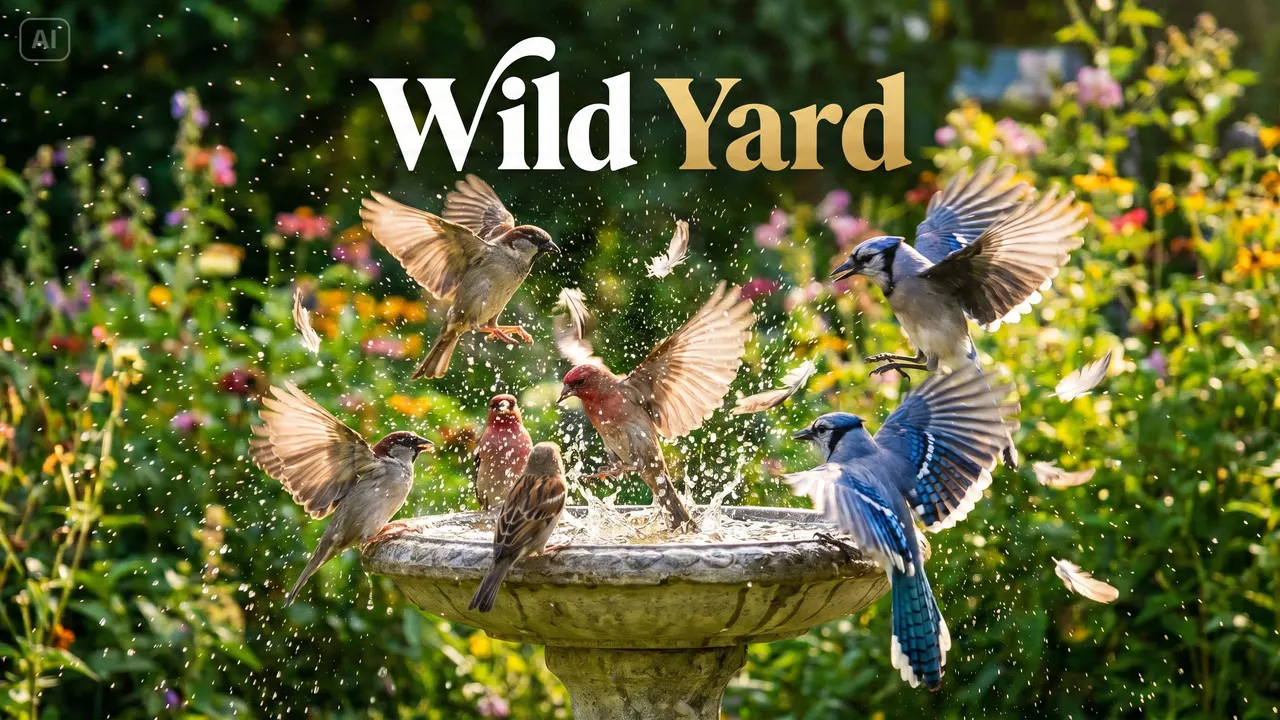
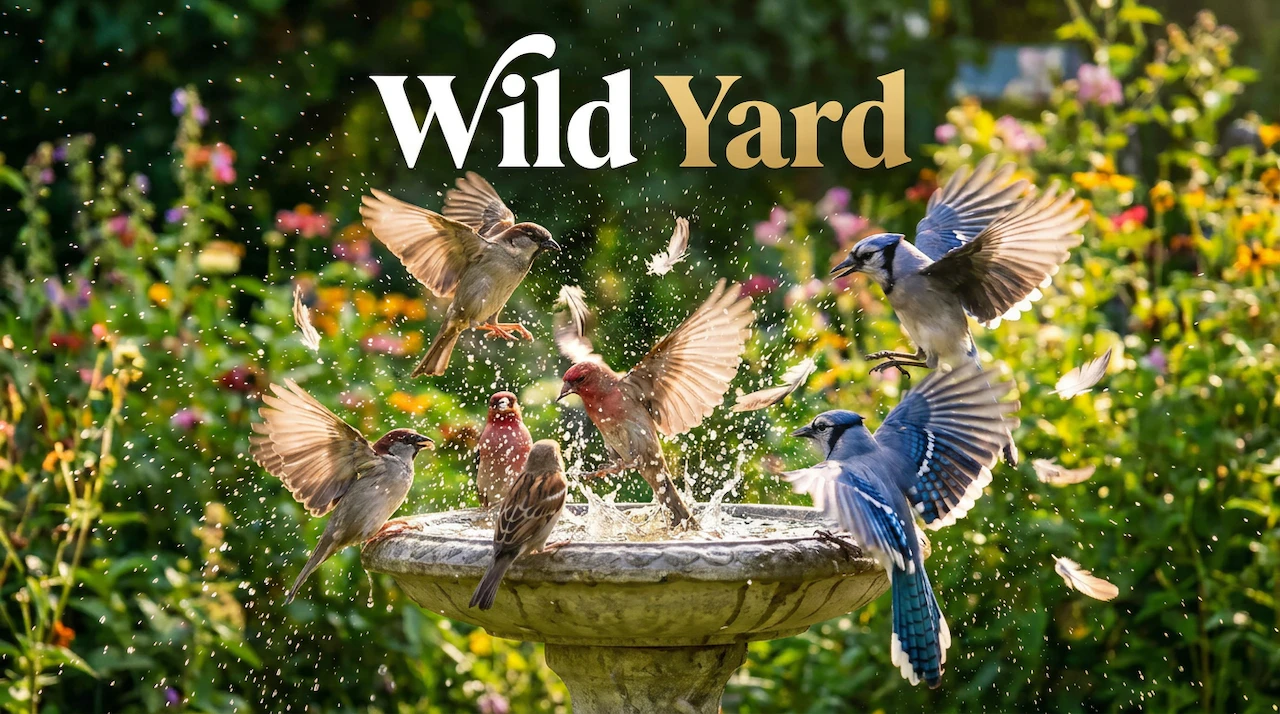
feat: Revamp HeroUpNext component to feature a spotlighted show and a compact lineup; remove QueueItem component for streamlined rendering; update styles and animations for enhanced user experience

diff --git a/components/catcup/hero-up-next.tsx b/components/catcup/hero-up-next.tsx
@@ -5,57 +5,216 @@ import * as m from "motion/react-m"
 import { SkipForward } from "@phosphor-icons/react"
 
 import { fadeRise, springSoft } from "@/lib/motion"
-import { SHOWS_BY_ID } from "@/lib/shows"
-import { usePlayer } from "@/components/catcup/player-provider"
-import { QueueItem } from "@/components/catcup/queue-item"
+import { QueueEntry, SHOWS_BY_ID, type Show } from "@/lib/shows"
+import { cn } from "@/lib/utils"
+import { usePlayer, usePlayerDispatch } from "@/components/catcup/player-provider"
+import { TrailerMedia } from "@/components/catcup/trailer-media"
+
+interface FeaturedProps {
+  /** The queue entry to spotlight as the next show. */
+  entry: QueueEntry
+}
+
+interface HeaderProps {
+  /** Callback invoked when the user skips to the next queued show. */
+  onSkip: () => void
+  /** The show title used for the skip button's accessible label. */
+  skipTitle: string
+}
+
+interface HeroUpNextProps {
+  /** Optional class names for the panel shell. */
+  className?: string
+}
+
+interface LineupItemProps {
+  /** The queue entry rendered in the compact lineup. */
+  entry: QueueEntry
+  /** The show's position in the queue (1-based). */
+  position: number
+}
+
+interface LineupProps {
+  /** Remaining queue entries after the featured show. */
+  entries: QueueEntry[]
+}
+
+interface ShowMetaProps {
+  /** The show whose metadata is displayed. */
+  show: Show
+}
 
 /**
- * Glassy "Up Next" panel listing every queued show with a skip-to-next control.
+ * Glassy Up Next panel with a featured next show and a compact lineup below.
  * Animates in and out so the hero stays uncluttered while the queue is empty.
  */
-export function HeroUpNext() {
+function HeroUpNextRoot({ className }: HeroUpNextProps) {
   const { dispatch, queue } = usePlayer()
-  const next = queue[0]
+  const [next, ...upcoming] = queue
   const nextShow = next ? SHOWS_BY_ID[next.showId] : undefined
 
   return (
     <AnimatePresence>
-      {queue.length > 0 ? (
+      {next && nextShow ? (
         <m.aside
           animate="show"
           aria-label="Up next queue"
-          className="flex flex-col gap-3 rounded-card border border-white/10 bg-surface-lowest/70 p-3.5 backdrop-blur-xl"
+          className={cn(
+            "flex flex-col gap-4 rounded-card border border-white/10 bg-surface-lowest/70 p-4 backdrop-blur-xl",
+            className
+          )}
           exit="hidden"
           initial="hidden"
           key="hero-up-next"
           transition={springSoft}
           variants={fadeRise}
         >
-          <div className="flex items-center justify-between">
-            <span className="text-body-sm font-semibold text-foreground">
-              Up Next
-            </span>
-            {nextShow ? (
-              <button
-                aria-label={`Skip to ${nextShow.title}`}
-                className="grid size-7 place-items-center rounded-full text-muted-foreground transition-colors hover:bg-surface-container hover:text-foreground focus-visible:outline-2 focus-visible:outline-offset-2 focus-visible:outline-blue"
-                onClick={() => dispatch({ type: "next" })}
-                type="button"
-              >
-                <SkipForward className="size-4" weight="fill" />
-              </button>
-            ) : null}
-          </div>
-
-          <ul className="flex flex-col gap-2">
-            <AnimatePresence initial={false}>
-              {queue.map((entry, index) => (
-                <QueueItem entry={entry} isNext={index === 0} key={entry.key} />
-              ))}
-            </AnimatePresence>
-          </ul>
+          <HeroUpNextHeader
+            onSkip={() => dispatch({ type: "next" })}
+            skipTitle={nextShow.title}
+          />
+          <HeroUpNextFeatured entry={next} />
+          {upcoming.length > 0 ? (
+            <HeroUpNextLineup entries={upcoming} />
+          ) : null}
         </m.aside>
       ) : null}
     </AnimatePresence>
   )
 }
+
+/**
+ * Panel header with title and skip control.
+ */
+function HeroUpNextHeader({ onSkip, skipTitle }: HeaderProps) {
+  return (
+    <div className="flex items-center justify-between gap-3">
+      <h2 className="text-title-md font-bold text-foreground">Up Next</h2>
+      <button
+        aria-label={`Skip to ${skipTitle}`}
+        className="inline-flex items-center gap-1.5 rounded-full border border-white/10 bg-white/5 px-3 py-1.5 text-xs font-semibold text-foreground transition-colors hover:bg-white/10 focus-visible:outline-2 focus-visible:outline-offset-2 focus-visible:outline-blue"
+        onClick={onSkip}
+        type="button"
+      >
+        Skip
+        <SkipForward className="size-3.5" weight="fill" />
+      </button>
+    </div>
+  )
+}
+
+/**
+ * Full-width spotlight card for the next queued show.
+ */
+function HeroUpNextFeatured({ entry }: FeaturedProps) {
+  const dispatch = usePlayerDispatch()
+  const show = SHOWS_BY_ID[entry.showId]
+
+  if (!show) return null
+
+  return (
+    <button
+      className="group flex w-full flex-col gap-3 text-left focus-visible:outline-2 focus-visible:outline-offset-4 focus-visible:outline-blue"
+      onClick={() => dispatch({ type: "play", showId: show.id })}
+      type="button"
+    >
+      <TrailerMedia
+        className="aspect-video w-full overflow-hidden rounded-xl ring-1 ring-white/10 transition-transform duration-300 group-hover:scale-[1.01]"
+        previewOnHover={false}
+        show={show}
+        sizes="320px"
+      />
+      <HeroUpNextShowMeta show={show} />
+    </button>
+  )
+}
+
+/**
+ * Compact list of shows queued after the featured item.
+ */
+function HeroUpNextLineup({ entries }: LineupProps) {
+  return (
+    <div className="flex flex-col gap-2">
+      <p className="text-label-sm px-1 text-subtle">Later in queue</p>
+      <ol className="flex flex-col gap-1 rounded-xl bg-black/25 p-1.5">
+        <AnimatePresence initial={false}>
+          {entries.map((entry, index) => (
+            <HeroUpNextLineupItem
+              entry={entry}
+              key={entry.key}
+              position={index + 2}
+            />
+          ))}
+        </AnimatePresence>
+      </ol>
+    </div>
+  )
+}
+
+/**
+ * Single compact row in the later-queue lineup.
+ */
+function HeroUpNextLineupItem({ entry, position }: LineupItemProps) {
+  const dispatch = usePlayerDispatch()
+  const show = SHOWS_BY_ID[entry.showId]
+
+  if (!show) return null
+
+  return (
+    <m.li
+      animate="show"
+      className="list-none"
+      exit="hidden"
+      initial="hidden"
+      layout
+      transition={springSoft}
+      variants={fadeRise}
+    >
+      <button
+        className="flex w-full items-center gap-3 rounded-lg px-2.5 py-2 text-left transition-colors hover:bg-white/5 focus-visible:outline-2 focus-visible:outline-offset-2 focus-visible:outline-blue"
+        onClick={() => dispatch({ type: "play", showId: show.id })}
+        type="button"
+      >
+        <span className="w-4 shrink-0 text-center text-xs font-medium text-subtle tabular-nums">
+          {position}
+        </span>
+        <span className="min-w-0 flex-1 truncate text-body-sm text-foreground/90">
+          {show.title}
+        </span>
+        <span className="shrink-0 text-xs text-muted-foreground tabular-nums">
+          {show.duration}
+        </span>
+      </button>
+    </m.li>
+  )
+}
+
+/**
+ * Shared title and metadata block for a queued show.
+ */
+function HeroUpNextShowMeta({ show }: ShowMetaProps) {
+  return (
+    <span className="flex flex-col gap-2 px-1">
+      <span className="truncate text-body-lg font-semibold text-foreground">
+        {show.title}
+      </span>
+      <span className="text-xs text-muted-foreground tabular-nums">
+        {show.duration}
+      </span>
+    </span>
+  )
+}
+
+HeroUpNextRoot.Header = HeroUpNextHeader
+HeroUpNextRoot.Featured = HeroUpNextFeatured
+HeroUpNextRoot.Lineup = HeroUpNextLineup
+HeroUpNextRoot.LineupItem = HeroUpNextLineupItem
+HeroUpNextRoot.ShowMeta = HeroUpNextShowMeta
+
+export const HeroUpNext = Object.assign(HeroUpNextRoot, {
+  Featured: HeroUpNextFeatured,
+  Header: HeroUpNextHeader,
+  Lineup: HeroUpNextLineup,
+  LineupItem: HeroUpNextLineupItem,
+  ShowMeta: HeroUpNextShowMeta,
+})